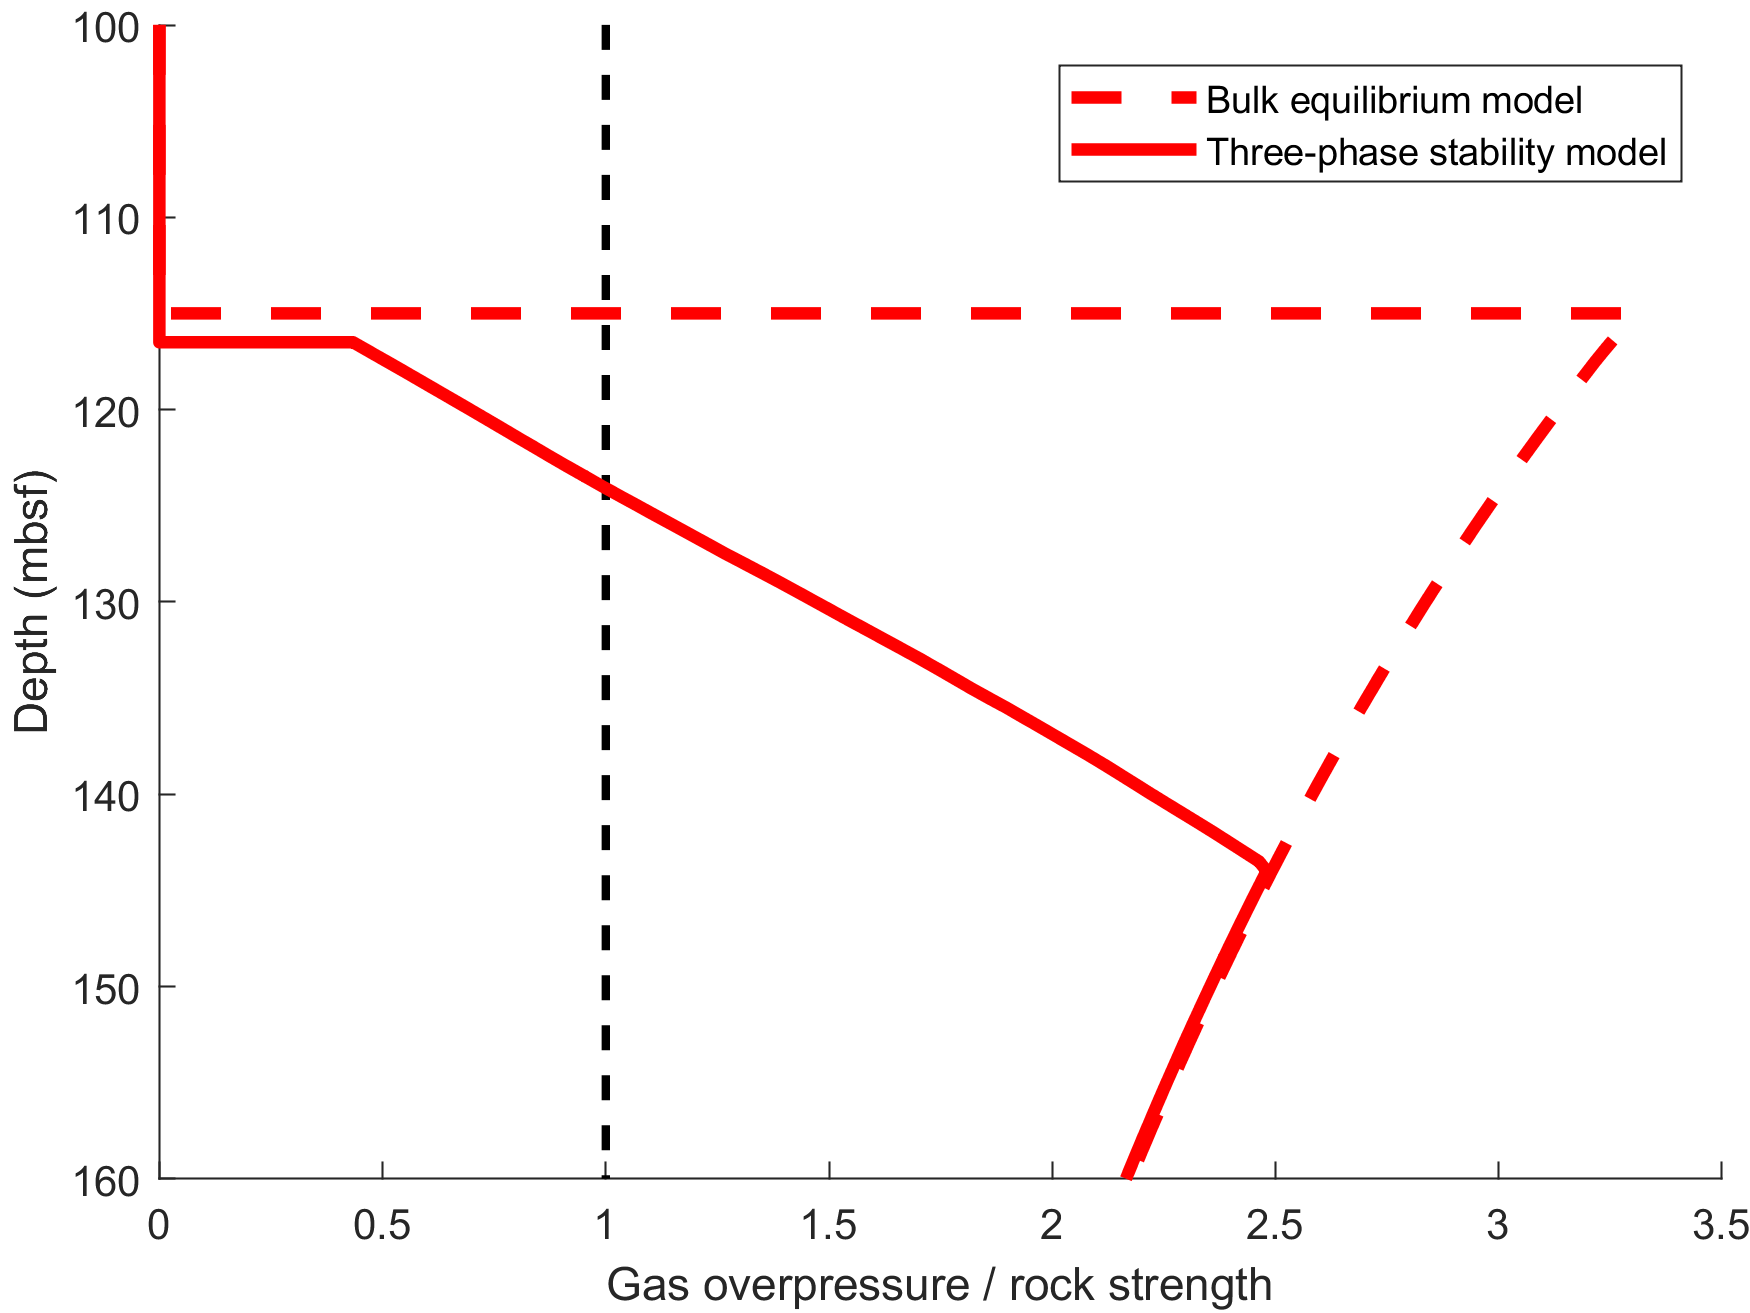
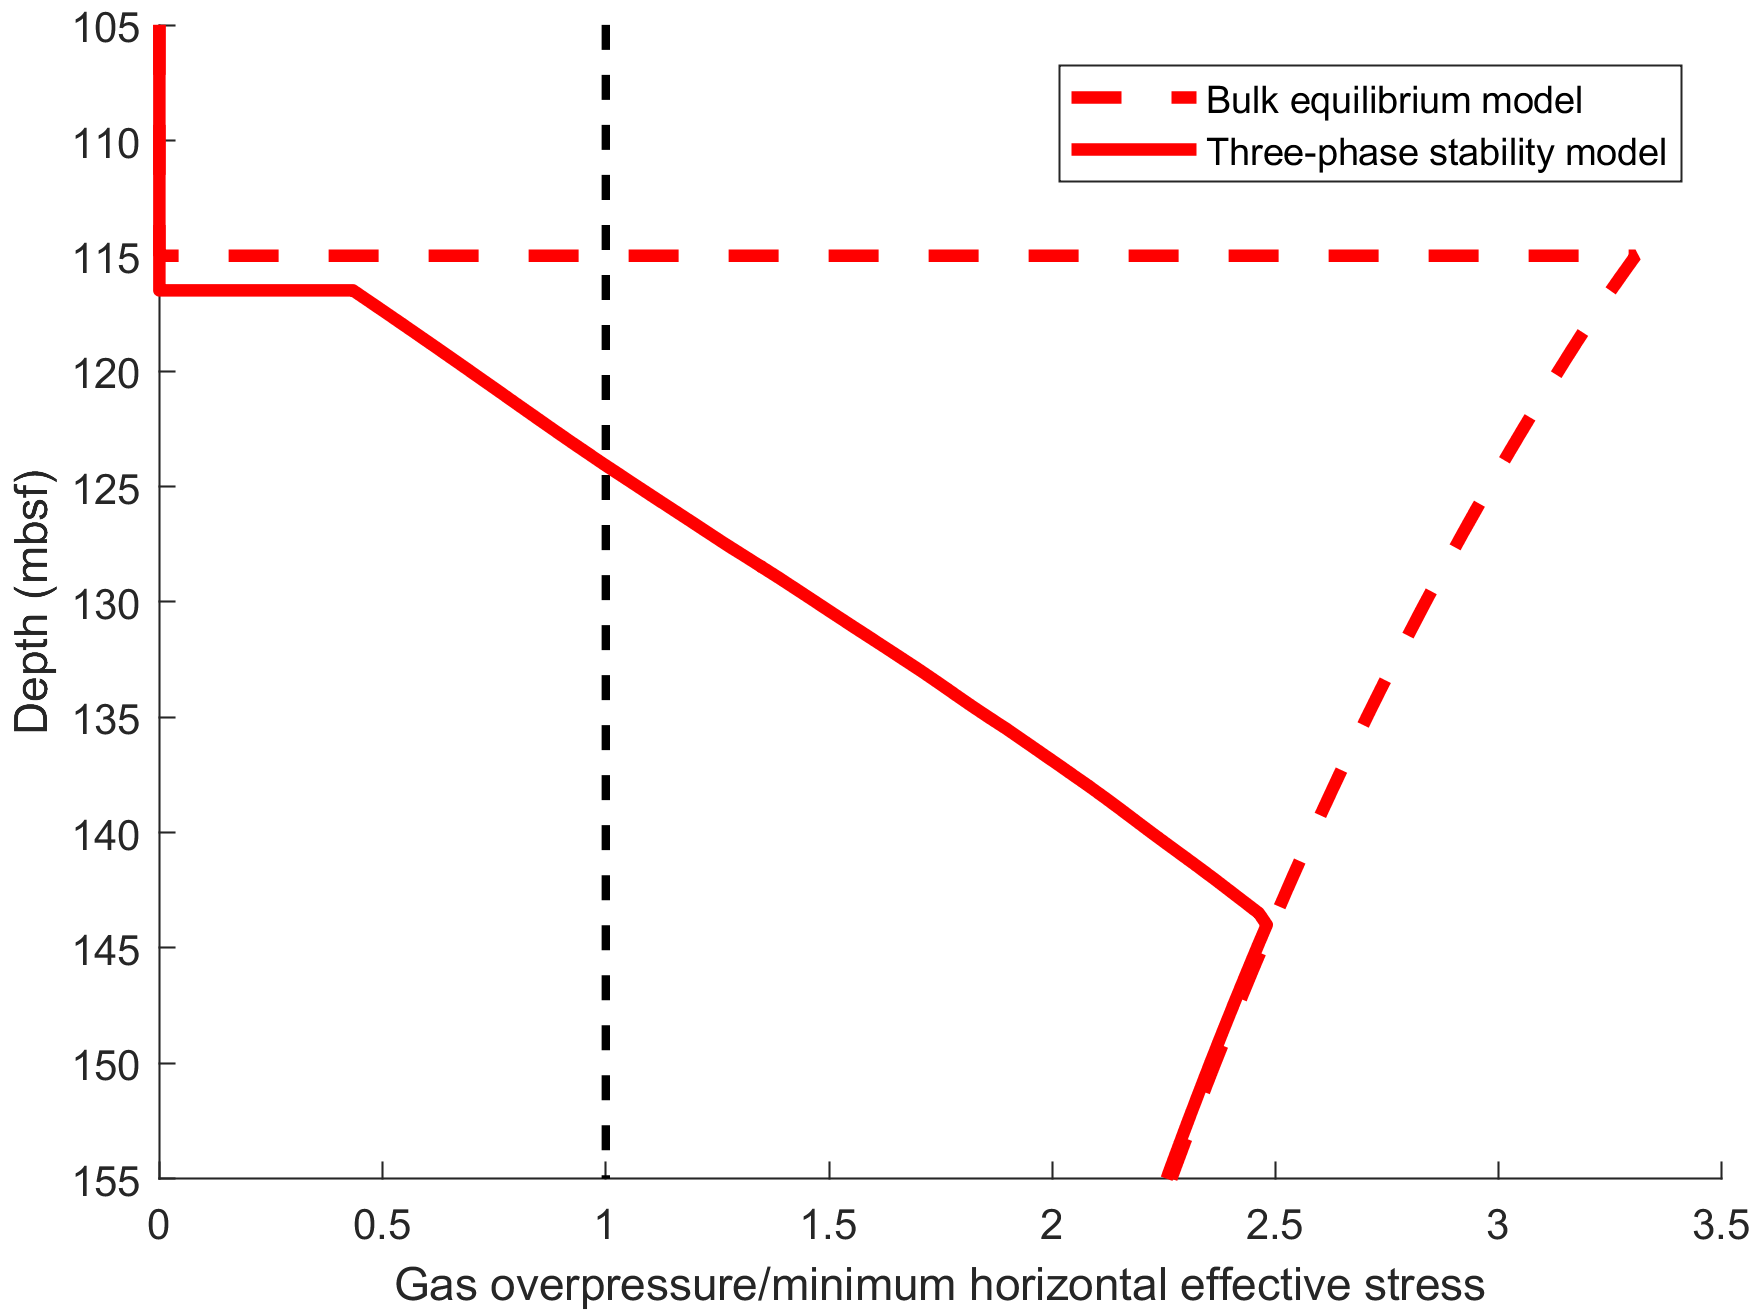
More manuscript pictures

diff --git a/DCTheoreticalFormation.m b/DCTheoreticalFormation.m
@@ -381,35 +381,35 @@ classdef DCTheoreticalFormation < BCFormation
         function PlotMethaneQuantities( seafloorDepthArray , minQuantityToFracture2PList , minQuantityToFracture3PList )
             figure
             hold on
-            plot(seafloorDepthArray, minQuantityToFracture2PList, 'linewidth', 3)
-            plot(seafloorDepthArray, minQuantityToFracture3PList, 'linewidth', 3)
+            plot(seafloorDepthArray, minQuantityToFracture2PList, 'r--', 'linewidth', 3)
+            plot(seafloorDepthArray, minQuantityToFracture3PList, 'r-', 'linewidth', 3)
             xlabel('Seafloor depth (m)')
-            ylabel('Minimum methane quantity to fracture (kg/m^3)')
-            legend('2-phase case', '3-phase case')
+            ylabel('Minimum CH_4 to fracture (kg/m^3)')
+            legend('Bulk equilibrium model', 'Three-phase stability model')
             axis([650 inf -inf inf])
             
             figure
             hold on
             plot(seafloorDepthArray, minQuantityToFracture3PList ./ minQuantityToFracture2PList, 'linewidth', 3)
             xlabel('Seafloor depth (m)')
-            ylabel('Ratio of 3P/2P methane quantity to fracture')
+            ylabel('3-phase stability/Bulk EQL CH_4 ratio to fracture')
             axis([650 inf -inf inf])
         end
         function PlotGasSaturations( seafloorDepthArray , sgFracture2PList , sgFracture3PList )
             figure
             hold on
-            plot(seafloorDepthArray, sgFracture2PList, 'linewidth', 3)
-            plot(seafloorDepthArray, sgFracture3PList, 'linewidth', 3)
+            plot(seafloorDepthArray, sgFracture2PList, 'r--', 'linewidth', 3)
+            plot(seafloorDepthArray, sgFracture3PList, 'r-', 'linewidth', 3)
             xlabel('Seafloor depth (m)')
-            ylabel('Gas saturation to fracture')
-            legend('2-phase case', '3-phase case')
+            ylabel('Minimum S_g to fracture')
+            legend('Bulk equilibrium model', 'Three-phase stability model')
             axis([650 inf -inf inf])
             
             figure
             hold on
             plot(seafloorDepthArray, sgFracture3PList ./ sgFracture2PList, 'linewidth', 3)
             xlabel('Seafloor depth (m)')
-            ylabel('Ratio of 3P/2P gas saturation to fracture')
+            ylabel('3-phase stability/Bulk EQL S_g ratio to fracture')
             axis([650 inf 1 inf])
         end
         function PlotDepths( seafloorDepthArray , depthStructList )

diff --git a/mainScript.m b/mainScript.m
@@ -10,7 +10,7 @@ clear variables
 % DCTheoreticalFormation.PlotGasSaturations(seafloorDepthArray, sgFracture2PList, sgFracture3PList);
 % DCTheoreticalFormation.PlotDepths(seafloorDepthArray, depthStructList);
 
-% PlotAllMICP()
+PlotAllMICP()
 
 
 %%% max seafloor depth for current parameters is 2100
@@ -50,16 +50,17 @@ clear variables
 % ch4Quantity = 115; % near max for KB
 % ch4Quantity = 55; % near max for HR
 % ch4Quantity = 120; % near max for BR
-ch4Quantity = 40;
 
-obj = DCBlakeRidge();
+% ch4Quantity = 40;
+
+% obj = DCBlakeRidge();
 % obj = DCHydrateRidge();
 % obj = DCKumanoBasin();
-
-[exportTable, transitionZoneProperties] = obj.RunSolubilitySaturationRoutine(ch4Quantity);
-exportTable = obj.RunRockAndRatioRoutine(exportTable);
-
-obj.GenerateResultPlots(exportTable, transitionZoneProperties);
+% 
+% [exportTable, transitionZoneProperties] = obj.RunSolubilitySaturationRoutine(ch4Quantity);
+% exportTable = obj.RunRockAndRatioRoutine(exportTable);
+% 
+% obj.GenerateResultPlots(exportTable, transitionZoneProperties);
 
 
 %%% Plot results
@@ -109,22 +110,25 @@ obj.GenerateResultPlots(exportTable, transitionZoneProperties);
 function PlotAllMICP()
     figure
     
+    
+
+    obj = DCBlakeRidge();
+    semilogy(1 - obj.MICP1.S_nw, obj.MICP1.Pc_gw, 'Linewidth', 4)
+    hold on
+    semilogy(1 - obj.MICP2.S_nw, obj.MICP2.Pc_gw, 'Linewidth', 4)
+    
     obj = DCHydrateRidge();
     % Copied from DCHydrateRidge method
     semilogy(1 - obj.MICP1.S_nw, obj.MICP1.Pc_gw, 'Linewidth', 4)
     
-    hold on
-
-    obj = DCBlakeRidge();
-    semilogy(1 - obj.MICP1.S_nw, obj.MICP1.Pc_gw, 'Linewidth', 4)
-    semilogy(1 - obj.MICP2.S_nw, obj.MICP2.Pc_gw, 'Linewidth', 4)
+    
     
     obj = DCKumanoBasin();
     semilogy(1 - obj.MICP{1}.SNW, obj.MICP{1}.PcGW, 'Linewidth', 4)
     
 %     xlabel('1 - S_n_w, or S_w')
     xlabel('S_w')
-    ylabel('P_c_g_w in MPa')
-    title('Primary Drainage Capillary Pressure')
-    legend('Hydrate Ridge', 'Blake Ridge 1', 'Blake Ridge 2', 'Kumano Basin')
+    ylabel('P_c_g_w (MPa)')
+%     title('Primary Drainage Capillary Pressure')
+    legend('Blake Ridge 1', 'Blake Ridge 2', 'Hydrate Ridge', 'Kumano Basin')
 end

diff --git a/BCFormation.m b/BCFormation.m
@@ -768,7 +768,7 @@ classdef BCFormation < handle
             plot( ratio2P , depthFor2P , lineStyleRatio{1} , 'linewidth' , 3 )
             plot( ratio3P , depthFor3P , lineStyleRatio{2} , 'linewidth' , 3 )            
             
-            xlabel('Gas overpressure / rock strength')
+            xlabel('Gas overpressure/minimum horizontal effective stress')
             ylabel('Depth (mbsf)')
             set(gca,'YDir','Reverse')
             legend('Bulk equilibrium model', 'Three-phase stability model')
